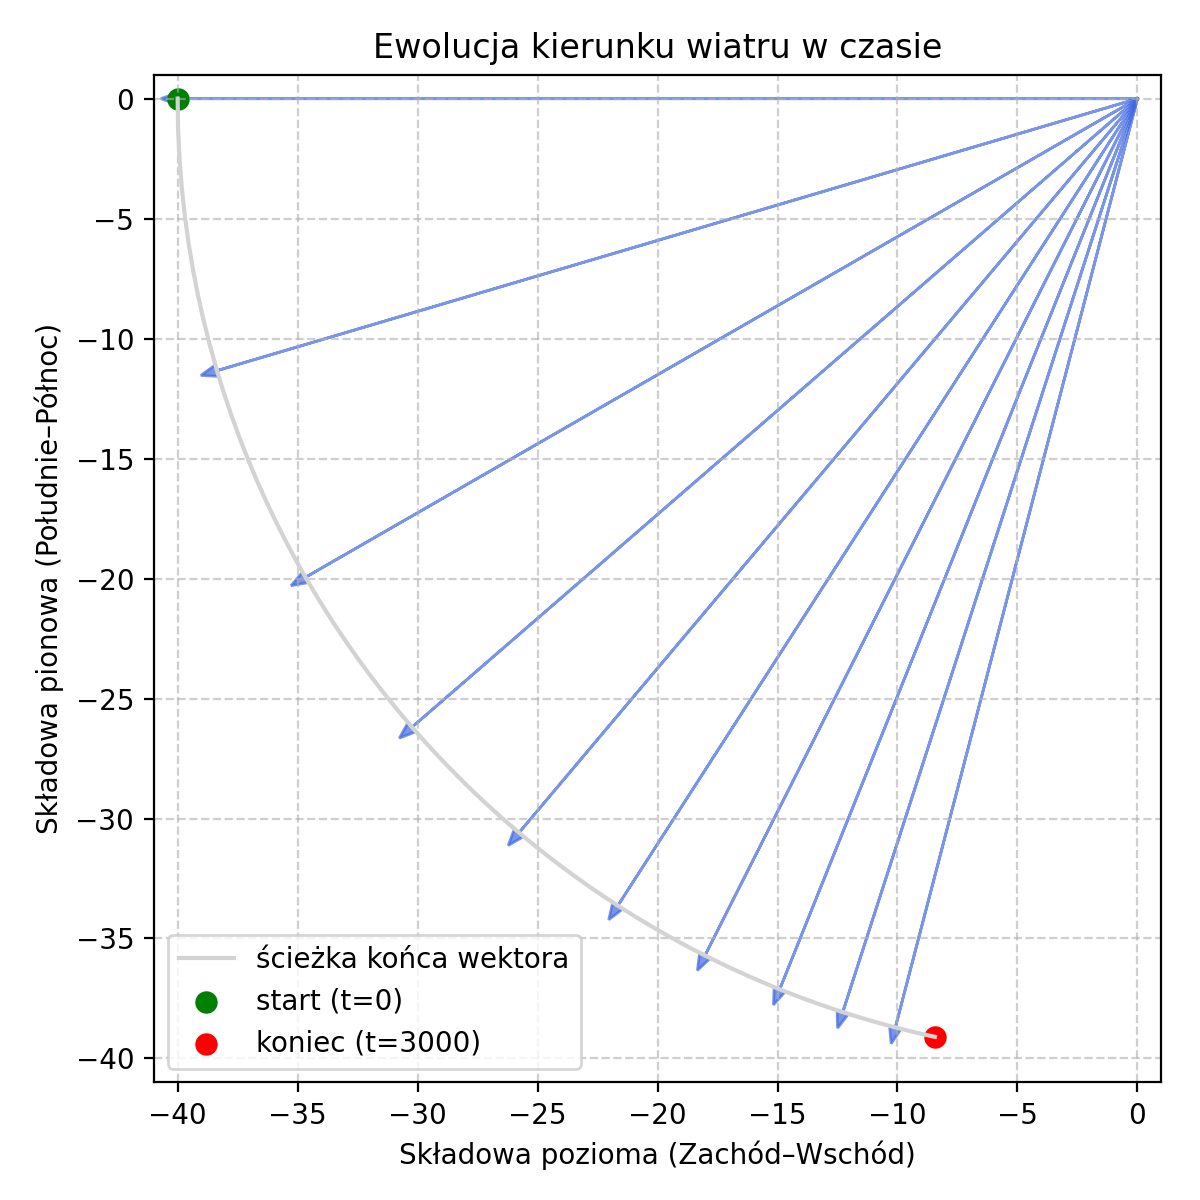
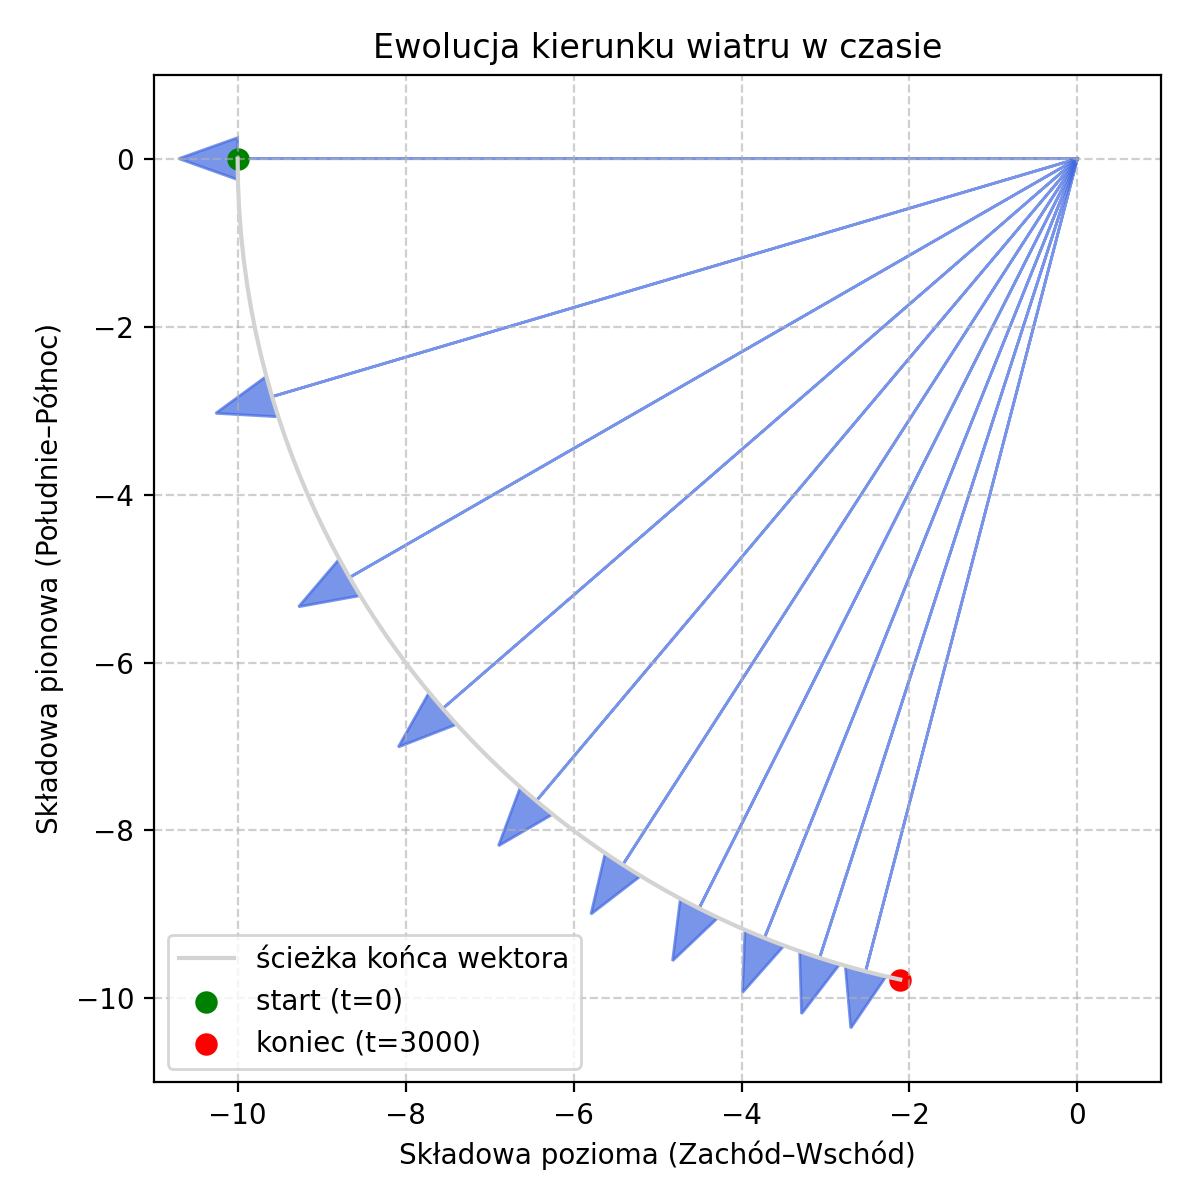
Change wind speed to 10

diff --git a/examples/wildfire/wind_chart.py b/examples/wildfire/wind_chart.py
@@ -2,7 +2,7 @@ import numpy as np
 import matplotlib.pyplot as plt
 
 def compute_wind(y, t):
-    speed = 40.0
+    speed = 10.0
     angle = (np.pi / 2.0) * (1.0 - np.exp(-t / 1500.0))
     bx = -speed * np.cos(angle)
     by = -speed * np.sin(angle)
@@ -20,8 +20,8 @@ U, V = np.array(U), np.array(V)
 
 # --- przygotowanie wykresu ---
 fig, ax = plt.subplots(figsize=(6, 6))
-ax.set_xlim(-41, 1)
-ax.set_ylim(-41, 1)
+ax.set_xlim(-11, 1)
+ax.set_ylim(-11, 1)
 ax.set_xlabel("Składowa pozioma (Zachód–Wschód)")
 ax.set_ylabel("Składowa pionowa (Południe–Północ)")
 ax.set_title("Ewolucja kierunku wiatru w czasie")

diff --git a/examples/wildfire/wind_vec_maps.py b/examples/wildfire/wind_vec_maps.py
@@ -10,7 +10,7 @@ timesteps = range(0, 9990, 10)
 os.makedirs("wind_maps", exist_ok=True)
 
 def wind_field(X, Y, t):
-    speed = 40.0
+    speed = 10.0
 
     # Angle smoothly transitions from 0 (west) to π/2 (south)
     angle = (np.pi / 2.0) * (1.0 - np.exp(-t / 1500.0))

diff --git a/examples/wildfire/wildfire.hpp b/examples/wildfire/wildfire.hpp
@@ -127,7 +127,7 @@ private:
     }
 
     std::array<double, 2> compute_wind(double x, double y, double t) {
-        double speed = 40.0;
+        double speed = 10.0;
 
         double angle = (M_PI / 2.0) * (1.0 - std::exp(-t / 1500.0));
 
